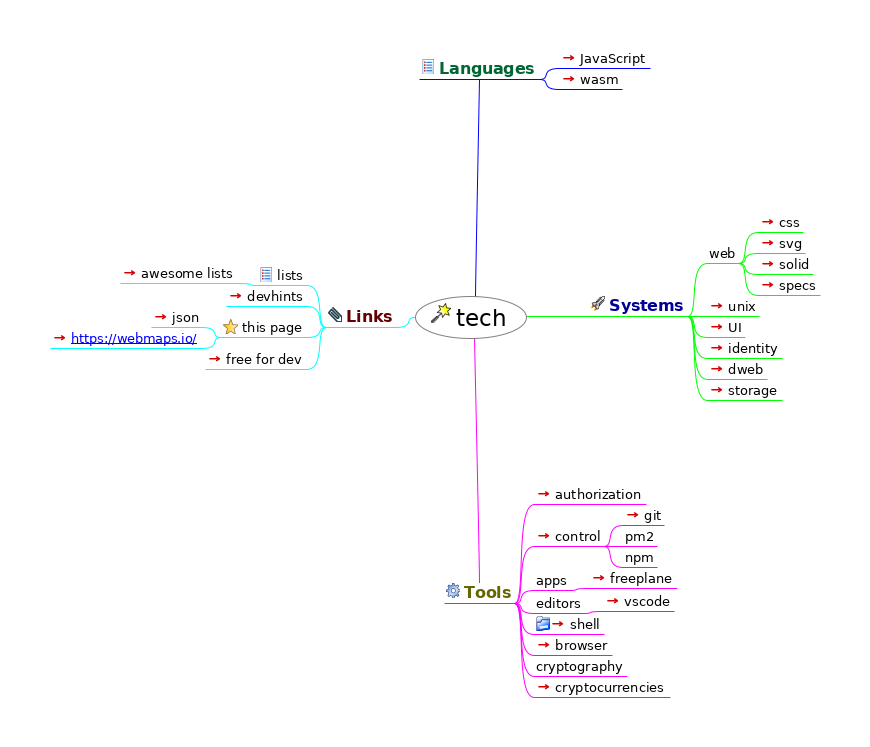
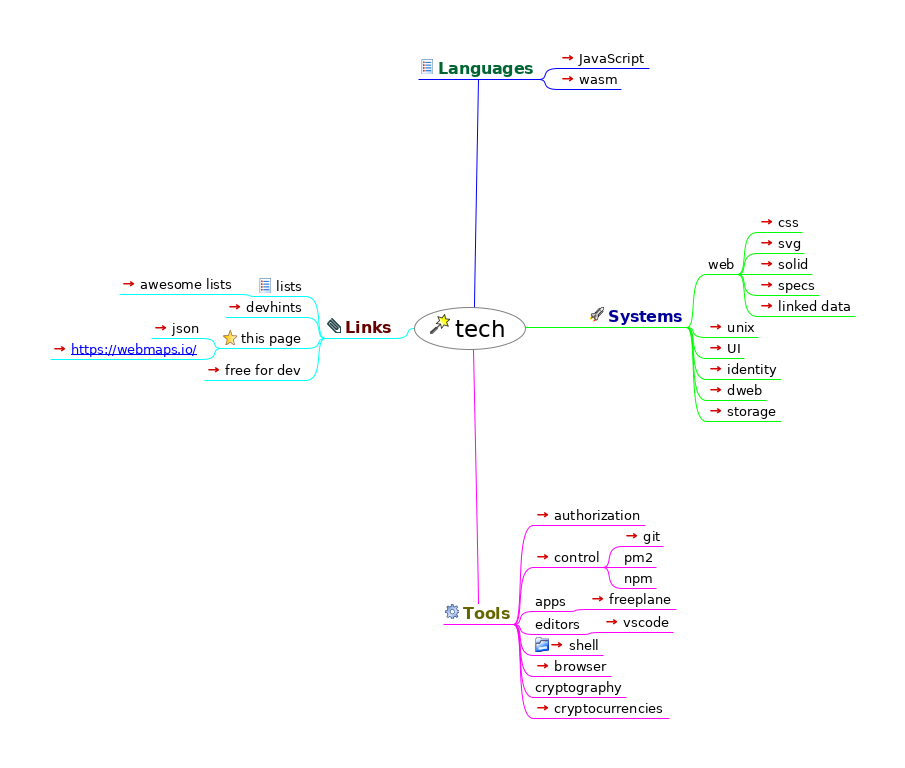
add linked data

diff --git a/index.html b/index.html
@@ -23,46 +23,47 @@
                    };
                };
           
-          --></script></head><body><h1>tech</h1><div style="width:96%;  padding:2%;  margin-bottom:10px;  border: 0px;  text-align:center;  vertical-align:center;"><img src="index.html_files/image.png" style="margin-bottom:10px; &#9;border: 0px; &#9;text-align:center; &#9;vertical-align:center;" alt="Imagemap" usemap="#fm_imagemap" /></div><map name="fm_imagemap" id="fm_imagemap"><area shape="rect" href="#FMID_237352286FM" alt="tech" title="tech" coords="415,296,527,339" />
-<area shape="rect" href="#FMID_176155545FM" alt="Languages" title="Languages" coords="419,59,540,79" />
-<area shape="rect" href="../JavaScript/index.html" alt="JavaScript" title="JavaScript" coords="559,50,650,68" />
-<area shape="rect" href="languages/wasm/index.html" alt="wasm" title="wasm" coords="559,71,622,89" />
-<area shape="rect" href="#FMID_527312312FM" alt="Systems" title="Systems" coords="588,296,688,316" />
-<area shape="rect" href="#FMID_532002583FM" alt="web" title="web" coords="707,245,739,263" />
-<area shape="rect" href="css.html" alt="css" title="css" coords="758,214,803,232" />
-<area shape="rect" href="https://www.w3schools.com/graphics/svg_reference.asp" alt="svg" title="svg" coords="758,235,805,253" />
-<area shape="rect" href="../solid/index.html" alt="solid" title="solid" coords="758,256,813,274" />
-<area shape="rect" href="../specs/index.html" alt="specs" title="specs" coords="758,277,820,295" />
-<area shape="rect" href="unix/index.html" alt="unix" title="unix" coords="707,298,759,316" />
-<area shape="rect" href="UI/index.html" alt="UI" title="UI" coords="707,319,745,337" />
-<area shape="rect" href="identity/index.html" alt="identity" title="identity" coords="707,340,782,358" />
-<area shape="rect" href="dweb/index.html" alt="dweb" title="dweb" coords="707,361,767,379" />
-<area shape="rect" href="storage/index.html" alt="storage" title="storage" coords="707,382,782,400" />
-<area shape="rect" href="#FMID_1810859973FM" alt="Tools" title="Tools" coords="444,583,515,603" />
-<area shape="rect" href="authorization/index.html" alt="authorization" title="authorization" coords="534,486,646,504" />
-<area shape="rect" href="control/index.html" alt="control" title="control" coords="534,528,604,546" />
-<area shape="rect" href="control/git.html" alt="git" title="git" coords="623,507,664,525" />
-<area shape="rect" href="#FMID_901084502FM" alt="pm2" title="pm2" coords="623,528,657,546" />
-<area shape="rect" href="#FMID_677687213FM" alt="npm" title="npm" coords="623,549,657,567" />
-<area shape="rect" href="#FMID_453742222FM" alt="apps" title="apps" coords="534,572,570,590" />
-<area shape="rect" href="freeplane.html" alt="freeplane" title="freeplane" coords="589,570,677,588" />
-<area shape="rect" href="#FMID_1019017499FM" alt="editors" title="editors" coords="534,595,584,613" />
-<area shape="rect" href="https://code.visualstudio.com/" alt="vscode" title="vscode" coords="603,593,674,611" />
-<area shape="rect" href="shell/index.html" alt="shell" title="shell" coords="534,616,604,634" />
-<area shape="rect" href="browser/index.html" alt="browser" title="browser" coords="534,637,612,655" />
-<area shape="rect" href="#FMID_697718730FM" alt="cryptography" title="cryptography" coords="534,658,627,676" />
-<area shape="rect" href="cryptocurrencies/index.html" alt="cryptocurrencies" title="cryptocurrencies" coords="534,679,670,697" />
-<area shape="rect" href="#FMID_777477932FM" alt="Links" title="Links" coords="326,307,396,327" />
-<area shape="rect" href="#FMID_21985093FM" alt="lists" title="lists" coords="257,267,307,285" />
-<area shape="rect" href="https://getawesomeness.herokuapp.com/get/js" alt="awesome lists" title="awesome lists" coords="120,265,238,283" />
-<area shape="rect" href="https://devhints.io/" alt="devhints" title="devhints" coords="226,288,307,306" />
-<area shape="rect" href="#FMID_117142409FM" alt="this page" title="this page" coords="221,319,307,337" />
-<area shape="rect" href="index.json" alt="json" title="json" coords="151,309,202,327" />
-<area shape="rect" href="https://webmaps.io/" alt="https://webmaps.io/" title="https://webmaps.io/" coords="50,330,202,348" />
-<area shape="rect" href="https://free-for.dev/#/" alt="free for dev" title="free for dev" coords="205,351,307,369" />
+          --></script></head><body><h1>tech</h1><div style="width:96%;  padding:2%;  margin-bottom:10px;  border: 0px;  text-align:center;  vertical-align:center;"><img src="index.html_files/image.png" style="margin-bottom:10px; &#9;border: 0px; &#9;text-align:center; &#9;vertical-align:center;" alt="Imagemap" usemap="#fm_imagemap" /></div><map name="fm_imagemap" id="fm_imagemap"><area shape="rect" href="#FMID_237352286FM" alt="tech" title="tech" coords="414,307,526,350" />
+<area shape="rect" href="#FMID_176155545FM" alt="Languages" title="Languages" coords="418,59,539,79" />
+<area shape="rect" href="../JavaScript/index.html" alt="JavaScript" title="JavaScript" coords="558,50,649,68" />
+<area shape="rect" href="languages/wasm/index.html" alt="wasm" title="wasm" coords="558,71,621,89" />
+<area shape="rect" href="#FMID_527312312FM" alt="Systems" title="Systems" coords="587,307,687,327" />
+<area shape="rect" href="#FMID_532002583FM" alt="web" title="web" coords="706,256,738,274" />
+<area shape="rect" href="css.html" alt="css" title="css" coords="757,214,802,232" />
+<area shape="rect" href="https://www.w3schools.com/graphics/svg_reference.asp" alt="svg" title="svg" coords="757,235,804,253" />
+<area shape="rect" href="../solid/index.html" alt="solid" title="solid" coords="757,256,812,274" />
+<area shape="rect" href="../specs/index.html" alt="specs" title="specs" coords="757,277,819,295" />
+<area shape="rect" href="../linkeddata/index.html.html" alt="linked data" title="linked data" coords="757,298,855,316" />
+<area shape="rect" href="unix/index.html" alt="unix" title="unix" coords="706,319,758,337" />
+<area shape="rect" href="UI/index.html" alt="UI" title="UI" coords="706,340,744,358" />
+<area shape="rect" href="identity/index.html" alt="identity" title="identity" coords="706,361,781,379" />
+<area shape="rect" href="dweb/index.html" alt="dweb" title="dweb" coords="706,382,766,400" />
+<area shape="rect" href="storage/index.html" alt="storage" title="storage" coords="706,403,781,421" />
+<area shape="rect" href="#FMID_1810859973FM" alt="Tools" title="Tools" coords="443,604,514,624" />
+<area shape="rect" href="authorization/index.html" alt="authorization" title="authorization" coords="533,507,645,525" />
+<area shape="rect" href="control/index.html" alt="control" title="control" coords="533,549,603,567" />
+<area shape="rect" href="control/git.html" alt="git" title="git" coords="622,528,663,546" />
+<area shape="rect" href="#FMID_901084502FM" alt="pm2" title="pm2" coords="622,549,656,567" />
+<area shape="rect" href="#FMID_677687213FM" alt="npm" title="npm" coords="622,570,656,588" />
+<area shape="rect" href="#FMID_453742222FM" alt="apps" title="apps" coords="533,593,569,611" />
+<area shape="rect" href="freeplane.html" alt="freeplane" title="freeplane" coords="588,591,676,609" />
+<area shape="rect" href="#FMID_1019017499FM" alt="editors" title="editors" coords="533,616,583,634" />
+<area shape="rect" href="https://code.visualstudio.com/" alt="vscode" title="vscode" coords="602,614,673,632" />
+<area shape="rect" href="shell/index.html" alt="shell" title="shell" coords="533,637,603,655" />
+<area shape="rect" href="browser/index.html" alt="browser" title="browser" coords="533,658,611,676" />
+<area shape="rect" href="#FMID_697718730FM" alt="cryptography" title="cryptography" coords="533,679,626,697" />
+<area shape="rect" href="cryptocurrencies/index.html" alt="cryptocurrencies" title="cryptocurrencies" coords="533,700,669,718" />
+<area shape="rect" href="#FMID_777477932FM" alt="Links" title="Links" coords="325,318,395,338" />
+<area shape="rect" href="#FMID_21985093FM" alt="lists" title="lists" coords="256,278,306,296" />
+<area shape="rect" href="https://getawesomeness.herokuapp.com/get/js" alt="awesome lists" title="awesome lists" coords="119,276,237,294" />
+<area shape="rect" href="https://devhints.io/" alt="devhints" title="devhints" coords="225,299,306,317" />
+<area shape="rect" href="#FMID_117142409FM" alt="this page" title="this page" coords="221,330,306,348" />
+<area shape="rect" href="index.json" alt="json" title="json" coords="151,320,202,338" />
+<area shape="rect" href="https://webmaps.io/" alt="https://webmaps.io/" title="https://webmaps.io/" coords="50,341,202,359" />
+<area shape="rect" href="https://free-for.dev/#/" alt="free for dev" title="free for dev" coords="204,362,306,380" />
 </map>
 
-<div class="node"><img src="index.html_files/hide.png" class="hideshow" alt="hide" onClick="toggle(&quot;N65543&quot;)" id="imgN65543" /><img src="index.html_files/icons/wizard.svg" alt="wizard" /> <a id="FMID_237352286FM" /><div class="nodecontent" style="color:#000000;font-size:150%;">tech</div><div class="content" id="N65543"><div class="node"><img src="index.html_files/hide.png" class="hideshow" alt="hide" onClick="toggle(&quot;N66444&quot;)" id="imgN66444" /><img src="index.html_files/icons/list.svg" alt="list" /> <a id="FMID_176155545FM" /><div class="nodecontent" style="color:#006633;font-size:100%;font-weight:bold;">Languages</div><div class="content" id="N66444"><div class="node"><img src="index.html_files/leaf.png" class="hideshow" alt="leaf" /><a id="FMID_546595456FM" /><div class="nodecontent" style="color:#000000;font-size:83%;"><a href="../JavaScript/index.html">JavaScript</a> <a href="../JavaScript/index.html"><img src="index.html_files/ilink.png" alt="User Link" style="border-width:0" /></a></div></div><div class="node"><img src="index.html_files/leaf.png" class="hideshow" alt="leaf" /><a id="FMID_1992588014FM" /><div class="nodecontent" style="color:#000000;font-size:83%;"><a href="languages/wasm/index.html">wasm</a> <a href="languages/wasm/index.html"><img src="index.html_files/ilink.png" alt="User Link" style="border-width:0" /></a></div></div></div></div><div class="node"><img src="index.html_files/hide.png" class="hideshow" alt="hide" onClick="toggle(&quot;N66562&quot;)" id="imgN66562" /><img src="index.html_files/icons/launch.svg" alt="launch" /> <a id="FMID_527312312FM" /><div class="nodecontent" style="color:#000099;font-size:100%;font-weight:bold;">Systems</div><div class="content" id="N66562"><div class="node"><img src="index.html_files/hide.png" class="hideshow" alt="hide" onClick="toggle(&quot;N66605&quot;)" id="imgN66605" /><a id="FMID_532002583FM" /><div class="nodecontent" style="color:#000000;font-size:83%;">web</div><div class="content" id="N66605"><div class="node"><img src="index.html_files/leaf.png" class="hideshow" alt="leaf" /><a id="FMID_1846113849FM" /><div class="nodecontent" style="color:#000000;font-size:83%;"><a href="css.html">css</a> <a href="css.html"><img src="index.html_files/ilink.png" alt="User Link" style="border-width:0" /></a></div></div><div class="node"><img src="index.html_files/leaf.png" class="hideshow" alt="leaf" /><a id="FMID_428457042FM" /><div class="nodecontent" style="color:#000000;font-size:83%;"><a href="https://www.w3schools.com/graphics/svg_reference.asp">svg</a> <a href="https://www.w3schools.com/graphics/svg_reference.asp"><img src="index.html_files/ilink.png" alt="User Link" style="border-width:0" /></a></div></div><div class="node"><img src="index.html_files/leaf.png" class="hideshow" alt="leaf" /><a id="FMID_1070141955FM" /><div class="nodecontent" style="color:#000000;font-size:83%;"><a href="../solid/index.html">solid</a> <a href="../solid/index.html"><img src="index.html_files/ilink.png" alt="User Link" style="border-width:0" /></a></div></div><div class="node"><img src="index.html_files/leaf.png" class="hideshow" alt="leaf" /><a id="FMID_1682894723FM" /><div class="nodecontent" style="color:#000000;font-size:83%;"><a href="../specs/index.html">specs</a> <a href="../specs/index.html"><img src="index.html_files/ilink.png" alt="User Link" style="border-width:0" /></a></div></div></div></div><div class="node"><img src="index.html_files/leaf.png" class="hideshow" alt="leaf" /><a id="FMID_7338816FM" /><div class="nodecontent" style="color:#000000;font-size:83%;"><a href="unix/index.html">unix</a> <a href="unix/index.html"><img src="index.html_files/ilink.png" alt="User Link" style="border-width:0" /></a></div></div><div class="node"><img src="index.html_files/leaf.png" class="hideshow" alt="leaf" /><a id="FMID_1601511624FM" /><div class="nodecontent" style="color:#000000;font-size:83%;"><a href="UI/index.html">UI</a> <a href="UI/index.html"><img src="index.html_files/ilink.png" alt="User Link" style="border-width:0" /></a></div></div><div class="node"><img src="index.html_files/leaf.png" class="hideshow" alt="leaf" /><a id="FMID_879802849FM" /><div class="nodecontent" style="color:#000000;font-size:83%;"><a href="identity/index.html">identity</a> <a href="identity/index.html"><img src="index.html_files/ilink.png" alt="User Link" style="border-width:0" /></a></div></div><div class="node"><img src="index.html_files/leaf.png" class="hideshow" alt="leaf" /><a id="FMID_1672732454FM" /><div class="nodecontent" style="color:#000000;font-size:83%;"><a href="dweb/index.html">dweb</a> <a href="dweb/index.html"><img src="index.html_files/ilink.png" alt="User Link" style="border-width:0" /></a></div></div><div class="node"><img src="index.html_files/leaf.png" class="hideshow" alt="leaf" /><a id="FMID_1360108173FM" /><div class="nodecontent" style="color:#000000;font-size:83%;"><a href="storage/index.html">storage</a> <a href="storage/index.html"><img src="index.html_files/ilink.png" alt="User Link" style="border-width:0" /></a></div></div></div></div><div class="node"><img src="index.html_files/hide.png" class="hideshow" alt="hide" onClick="toggle(&quot;N66975&quot;)" id="imgN66975" /><img src="index.html_files/icons/executable.svg" alt="executable" /> <a id="FMID_1810859973FM" /><div class="nodecontent" style="color:#666600;font-size:100%;font-weight:bold;">Tools</div><div class="content" id="N66975"><div class="node"><img src="index.html_files/leaf.png" class="hideshow" alt="leaf" /><a id="FMID_1568925180FM" /><div class="nodecontent" style="color:#000000;font-size:83%;"><a href="authorization/index.html">authorization</a> <a href="authorization/index.html"><img src="index.html_files/ilink.png" alt="User Link" style="border-width:0" /></a></div></div><div class="node"><img src="index.html_files/hide.png" class="hideshow" alt="hide" onClick="toggle(&quot;N67055&quot;)" id="imgN67055" /><a id="FMID_1041005677FM" /><div class="nodecontent" style="color:#000000;font-size:83%;"><a href="control/index.html">control</a> <a href="control/index.html"><img src="index.html_files/ilink.png" alt="User Link" style="border-width:0" /></a></div><div class="content" id="N67055"><div class="node"><img src="index.html_files/leaf.png" class="hideshow" alt="leaf" /><a id="FMID_1536156446FM" /><div class="nodecontent" style="color:#000000;font-size:83%;"><a href="control/git.html">git</a> <a href="control/git.html"><img src="index.html_files/ilink.png" alt="User Link" style="border-width:0" /></a></div></div><div class="node"><img src="index.html_files/leaf.png" class="hideshow" alt="leaf" /><a id="FMID_901084502FM" /><div class="nodecontent" style="color:#000000;font-size:83%;">pm2</div></div><div class="node"><img src="index.html_files/leaf.png" class="hideshow" alt="leaf" /><a id="FMID_677687213FM" /><div class="nodecontent" style="color:#000000;font-size:83%;">npm</div></div></div></div><div class="node"><img src="index.html_files/hide.png" class="hideshow" alt="hide" onClick="toggle(&quot;N67201&quot;)" id="imgN67201" /><a id="FMID_453742222FM" /><div class="nodecontent" style="color:#000000;font-size:83%;">apps</div><div class="content" id="N67201"><div class="node"><img src="index.html_files/leaf.png" class="hideshow" alt="leaf" /><a id="FMID_756649779FM" /><div class="nodecontent" style="color:#000000;font-size:83%;"><a href="freeplane.html">freeplane</a> <a href="freeplane.html"><img src="index.html_files/ilink.png" alt="User Link" style="border-width:0" /></a></div></div></div></div><div class="node"><img src="index.html_files/hide.png" class="hideshow" alt="hide" onClick="toggle(&quot;N67274&quot;)" id="imgN67274" /><a id="FMID_1019017499FM" /><div class="nodecontent" style="color:#000000;font-size:83%;">editors</div><div class="content" id="N67274"><div class="node"><img src="index.html_files/leaf.png" class="hideshow" alt="leaf" /><a id="FMID_847676993FM" /><div class="nodecontent" style="color:#000000;font-size:83%;"><a href="https://code.visualstudio.com/">vscode</a> <a href="https://code.visualstudio.com/"><img src="index.html_files/ilink.png" alt="User Link" style="border-width:0" /></a></div></div></div></div><div class="node"><img src="index.html_files/leaf.png" class="hideshow" alt="leaf" /><img src="index.html_files/icons/folder.svg" alt="folder" /> <a id="FMID_1968717210FM" /><div class="nodecontent" style="color:#000000;font-size:83%;"><a href="shell/index.html">shell</a> <a href="shell/index.html"><img src="index.html_files/ilink.png" alt="User Link" style="border-width:0" /></a></div></div><div class="node"><img src="index.html_files/leaf.png" class="hideshow" alt="leaf" /><a id="FMID_220365950FM" /><div class="nodecontent" style="color:#000000;font-size:83%;"><a href="browser/index.html">browser</a> <a href="browser/index.html"><img src="index.html_files/ilink.png" alt="User Link" style="border-width:0" /></a></div></div><div class="node"><img src="index.html_files/leaf.png" class="hideshow" alt="leaf" /><a id="FMID_697718730FM" /><div class="nodecontent" style="color:#000000;font-size:83%;">cryptography</div></div><div class="node"><img src="index.html_files/leaf.png" class="hideshow" alt="leaf" /><a id="FMID_653198444FM" /><div class="nodecontent" style="color:#000000;font-size:83%;"><a href="cryptocurrencies/index.html">cryptocurrencies</a> <a href="cryptocurrencies/index.html"><img src="index.html_files/ilink.png" alt="User Link" style="border-width:0" /></a></div></div></div></div><div class="node"><img src="index.html_files/hide.png" class="hideshow" alt="hide" onClick="toggle(&quot;N67500&quot;)" id="imgN67500" /><img src="index.html_files/icons/attach.svg" alt="attach" /> <a id="FMID_777477932FM" /><div class="nodecontent" style="color:#660000;font-size:100%;font-weight:bold;">Links</div><div class="content" id="N67500"><div class="node"><img src="index.html_files/hide.png" class="hideshow" alt="hide" onClick="toggle(&quot;N67541&quot;)" id="imgN67541" /><img src="index.html_files/icons/list.svg" alt="list" /> <a id="FMID_21985093FM" /><div class="nodecontent" style="color:#000000;font-size:83%;">lists</div><div class="content" id="N67541"><div class="node"><img src="index.html_files/leaf.png" class="hideshow" alt="leaf" /><a id="FMID_588856980FM" /><div class="nodecontent" style="color:#000000;font-size:83%;"><a href="https://getawesomeness.herokuapp.com/get/js">awesome lists</a> <a href="https://getawesomeness.herokuapp.com/get/js"><img src="index.html_files/ilink.png" alt="User Link" style="border-width:0" /></a></div></div></div></div><div class="node"><img src="index.html_files/leaf.png" class="hideshow" alt="leaf" /><a id="FMID_1033702527FM" /><div class="nodecontent" style="color:#000000;font-size:83%;"><a href="https://devhints.io/">devhints</a> <a href="https://devhints.io/"><img src="index.html_files/ilink.png" alt="User Link" style="border-width:0" /></a></div></div><div class="node"><img src="index.html_files/hide.png" class="hideshow" alt="hide" onClick="toggle(&quot;N67656&quot;)" id="imgN67656" /><img src="index.html_files/icons/bookmark.svg" alt="bookmark" /> <a id="FMID_117142409FM" /><div class="nodecontent" style="color:#000000;font-size:83%;">this page</div><div class="content" id="N67656"><div class="node"><img src="index.html_files/leaf.png" class="hideshow" alt="leaf" /><a id="FMID_485260235FM" /><div class="nodecontent" style="color:#000000;font-size:83%;"><a href="index.json">json</a> <a href="index.json"><img src="index.html_files/ilink.png" alt="User Link" style="border-width:0" /></a></div></div><div class="node"><img src="index.html_files/leaf.png" class="hideshow" alt="leaf" /><a id="FMID_1630439828FM" /><div class="nodecontent" style="color:#000000;font-size:83%;"><a href="https://webmaps.io/">
+<div class="node"><img src="index.html_files/hide.png" class="hideshow" alt="hide" onClick="toggle(&quot;N65543&quot;)" id="imgN65543" /><img src="index.html_files/icons/wizard.svg" alt="wizard" /> <a id="FMID_237352286FM" /><div class="nodecontent" style="color:#000000;font-size:150%;">tech</div><div class="content" id="N65543"><div class="node"><img src="index.html_files/hide.png" class="hideshow" alt="hide" onClick="toggle(&quot;N66444&quot;)" id="imgN66444" /><img src="index.html_files/icons/list.svg" alt="list" /> <a id="FMID_176155545FM" /><div class="nodecontent" style="color:#006633;font-size:100%;font-weight:bold;">Languages</div><div class="content" id="N66444"><div class="node"><img src="index.html_files/leaf.png" class="hideshow" alt="leaf" /><a id="FMID_546595456FM" /><div class="nodecontent" style="color:#000000;font-size:83%;"><a href="../JavaScript/index.html">JavaScript</a> <a href="../JavaScript/index.html"><img src="index.html_files/ilink.png" alt="User Link" style="border-width:0" /></a></div></div><div class="node"><img src="index.html_files/leaf.png" class="hideshow" alt="leaf" /><a id="FMID_1992588014FM" /><div class="nodecontent" style="color:#000000;font-size:83%;"><a href="languages/wasm/index.html">wasm</a> <a href="languages/wasm/index.html"><img src="index.html_files/ilink.png" alt="User Link" style="border-width:0" /></a></div></div></div></div><div class="node"><img src="index.html_files/hide.png" class="hideshow" alt="hide" onClick="toggle(&quot;N66562&quot;)" id="imgN66562" /><img src="index.html_files/icons/launch.svg" alt="launch" /> <a id="FMID_527312312FM" /><div class="nodecontent" style="color:#000099;font-size:100%;font-weight:bold;">Systems</div><div class="content" id="N66562"><div class="node"><img src="index.html_files/hide.png" class="hideshow" alt="hide" onClick="toggle(&quot;N66605&quot;)" id="imgN66605" /><a id="FMID_532002583FM" /><div class="nodecontent" style="color:#000000;font-size:83%;">web</div><div class="content" id="N66605"><div class="node"><img src="index.html_files/leaf.png" class="hideshow" alt="leaf" /><a id="FMID_1846113849FM" /><div class="nodecontent" style="color:#000000;font-size:83%;"><a href="css.html">css</a> <a href="css.html"><img src="index.html_files/ilink.png" alt="User Link" style="border-width:0" /></a></div></div><div class="node"><img src="index.html_files/leaf.png" class="hideshow" alt="leaf" /><a id="FMID_428457042FM" /><div class="nodecontent" style="color:#000000;font-size:83%;"><a href="https://www.w3schools.com/graphics/svg_reference.asp">svg</a> <a href="https://www.w3schools.com/graphics/svg_reference.asp"><img src="index.html_files/ilink.png" alt="User Link" style="border-width:0" /></a></div></div><div class="node"><img src="index.html_files/leaf.png" class="hideshow" alt="leaf" /><a id="FMID_1070141955FM" /><div class="nodecontent" style="color:#000000;font-size:83%;"><a href="../solid/index.html">solid</a> <a href="../solid/index.html"><img src="index.html_files/ilink.png" alt="User Link" style="border-width:0" /></a></div></div><div class="node"><img src="index.html_files/leaf.png" class="hideshow" alt="leaf" /><a id="FMID_1682894723FM" /><div class="nodecontent" style="color:#000000;font-size:83%;"><a href="../specs/index.html">specs</a> <a href="../specs/index.html"><img src="index.html_files/ilink.png" alt="User Link" style="border-width:0" /></a></div></div><div class="node"><img src="index.html_files/leaf.png" class="hideshow" alt="leaf" /><a id="FMID_1972132930FM" /><div class="nodecontent" style="color:#000000;font-size:83%;"><a href="../linkeddata/index.html.html">linked data</a> <a href="../linkeddata/index.html.html"><img src="index.html_files/ilink.png" alt="User Link" style="border-width:0" /></a></div></div></div></div><div class="node"><img src="index.html_files/leaf.png" class="hideshow" alt="leaf" /><a id="FMID_7338816FM" /><div class="nodecontent" style="color:#000000;font-size:83%;"><a href="unix/index.html">unix</a> <a href="unix/index.html"><img src="index.html_files/ilink.png" alt="User Link" style="border-width:0" /></a></div></div><div class="node"><img src="index.html_files/leaf.png" class="hideshow" alt="leaf" /><a id="FMID_1601511624FM" /><div class="nodecontent" style="color:#000000;font-size:83%;"><a href="UI/index.html">UI</a> <a href="UI/index.html"><img src="index.html_files/ilink.png" alt="User Link" style="border-width:0" /></a></div></div><div class="node"><img src="index.html_files/leaf.png" class="hideshow" alt="leaf" /><a id="FMID_879802849FM" /><div class="nodecontent" style="color:#000000;font-size:83%;"><a href="identity/index.html">identity</a> <a href="identity/index.html"><img src="index.html_files/ilink.png" alt="User Link" style="border-width:0" /></a></div></div><div class="node"><img src="index.html_files/leaf.png" class="hideshow" alt="leaf" /><a id="FMID_1672732454FM" /><div class="nodecontent" style="color:#000000;font-size:83%;"><a href="dweb/index.html">dweb</a> <a href="dweb/index.html"><img src="index.html_files/ilink.png" alt="User Link" style="border-width:0" /></a></div></div><div class="node"><img src="index.html_files/leaf.png" class="hideshow" alt="leaf" /><a id="FMID_1360108173FM" /><div class="nodecontent" style="color:#000000;font-size:83%;"><a href="storage/index.html">storage</a> <a href="storage/index.html"><img src="index.html_files/ilink.png" alt="User Link" style="border-width:0" /></a></div></div></div></div><div class="node"><img src="index.html_files/hide.png" class="hideshow" alt="hide" onClick="toggle(&quot;N67012&quot;)" id="imgN67012" /><img src="index.html_files/icons/executable.svg" alt="executable" /> <a id="FMID_1810859973FM" /><div class="nodecontent" style="color:#666600;font-size:100%;font-weight:bold;">Tools</div><div class="content" id="N67012"><div class="node"><img src="index.html_files/leaf.png" class="hideshow" alt="leaf" /><a id="FMID_1568925180FM" /><div class="nodecontent" style="color:#000000;font-size:83%;"><a href="authorization/index.html">authorization</a> <a href="authorization/index.html"><img src="index.html_files/ilink.png" alt="User Link" style="border-width:0" /></a></div></div><div class="node"><img src="index.html_files/hide.png" class="hideshow" alt="hide" onClick="toggle(&quot;N67092&quot;)" id="imgN67092" /><a id="FMID_1041005677FM" /><div class="nodecontent" style="color:#000000;font-size:83%;"><a href="control/index.html">control</a> <a href="control/index.html"><img src="index.html_files/ilink.png" alt="User Link" style="border-width:0" /></a></div><div class="content" id="N67092"><div class="node"><img src="index.html_files/leaf.png" class="hideshow" alt="leaf" /><a id="FMID_1536156446FM" /><div class="nodecontent" style="color:#000000;font-size:83%;"><a href="control/git.html">git</a> <a href="control/git.html"><img src="index.html_files/ilink.png" alt="User Link" style="border-width:0" /></a></div></div><div class="node"><img src="index.html_files/leaf.png" class="hideshow" alt="leaf" /><a id="FMID_901084502FM" /><div class="nodecontent" style="color:#000000;font-size:83%;">pm2</div></div><div class="node"><img src="index.html_files/leaf.png" class="hideshow" alt="leaf" /><a id="FMID_677687213FM" /><div class="nodecontent" style="color:#000000;font-size:83%;">npm</div></div></div></div><div class="node"><img src="index.html_files/hide.png" class="hideshow" alt="hide" onClick="toggle(&quot;N67238&quot;)" id="imgN67238" /><a id="FMID_453742222FM" /><div class="nodecontent" style="color:#000000;font-size:83%;">apps</div><div class="content" id="N67238"><div class="node"><img src="index.html_files/leaf.png" class="hideshow" alt="leaf" /><a id="FMID_756649779FM" /><div class="nodecontent" style="color:#000000;font-size:83%;"><a href="freeplane.html">freeplane</a> <a href="freeplane.html"><img src="index.html_files/ilink.png" alt="User Link" style="border-width:0" /></a></div></div></div></div><div class="node"><img src="index.html_files/hide.png" class="hideshow" alt="hide" onClick="toggle(&quot;N67311&quot;)" id="imgN67311" /><a id="FMID_1019017499FM" /><div class="nodecontent" style="color:#000000;font-size:83%;">editors</div><div class="content" id="N67311"><div class="node"><img src="index.html_files/leaf.png" class="hideshow" alt="leaf" /><a id="FMID_847676993FM" /><div class="nodecontent" style="color:#000000;font-size:83%;"><a href="https://code.visualstudio.com/">vscode</a> <a href="https://code.visualstudio.com/"><img src="index.html_files/ilink.png" alt="User Link" style="border-width:0" /></a></div></div></div></div><div class="node"><img src="index.html_files/leaf.png" class="hideshow" alt="leaf" /><img src="index.html_files/icons/folder.svg" alt="folder" /> <a id="FMID_1968717210FM" /><div class="nodecontent" style="color:#000000;font-size:83%;"><a href="shell/index.html">shell</a> <a href="shell/index.html"><img src="index.html_files/ilink.png" alt="User Link" style="border-width:0" /></a></div></div><div class="node"><img src="index.html_files/leaf.png" class="hideshow" alt="leaf" /><a id="FMID_220365950FM" /><div class="nodecontent" style="color:#000000;font-size:83%;"><a href="browser/index.html">browser</a> <a href="browser/index.html"><img src="index.html_files/ilink.png" alt="User Link" style="border-width:0" /></a></div></div><div class="node"><img src="index.html_files/leaf.png" class="hideshow" alt="leaf" /><a id="FMID_697718730FM" /><div class="nodecontent" style="color:#000000;font-size:83%;">cryptography</div></div><div class="node"><img src="index.html_files/leaf.png" class="hideshow" alt="leaf" /><a id="FMID_653198444FM" /><div class="nodecontent" style="color:#000000;font-size:83%;"><a href="cryptocurrencies/index.html">cryptocurrencies</a> <a href="cryptocurrencies/index.html"><img src="index.html_files/ilink.png" alt="User Link" style="border-width:0" /></a></div></div></div></div><div class="node"><img src="index.html_files/hide.png" class="hideshow" alt="hide" onClick="toggle(&quot;N67537&quot;)" id="imgN67537" /><img src="index.html_files/icons/attach.svg" alt="attach" /> <a id="FMID_777477932FM" /><div class="nodecontent" style="color:#660000;font-size:100%;font-weight:bold;">Links</div><div class="content" id="N67537"><div class="node"><img src="index.html_files/hide.png" class="hideshow" alt="hide" onClick="toggle(&quot;N67578&quot;)" id="imgN67578" /><img src="index.html_files/icons/list.svg" alt="list" /> <a id="FMID_21985093FM" /><div class="nodecontent" style="color:#000000;font-size:83%;">lists</div><div class="content" id="N67578"><div class="node"><img src="index.html_files/leaf.png" class="hideshow" alt="leaf" /><a id="FMID_588856980FM" /><div class="nodecontent" style="color:#000000;font-size:83%;"><a href="https://getawesomeness.herokuapp.com/get/js">awesome lists</a> <a href="https://getawesomeness.herokuapp.com/get/js"><img src="index.html_files/ilink.png" alt="User Link" style="border-width:0" /></a></div></div></div></div><div class="node"><img src="index.html_files/leaf.png" class="hideshow" alt="leaf" /><a id="FMID_1033702527FM" /><div class="nodecontent" style="color:#000000;font-size:83%;"><a href="https://devhints.io/">devhints</a> <a href="https://devhints.io/"><img src="index.html_files/ilink.png" alt="User Link" style="border-width:0" /></a></div></div><div class="node"><img src="index.html_files/hide.png" class="hideshow" alt="hide" onClick="toggle(&quot;N67693&quot;)" id="imgN67693" /><img src="index.html_files/icons/bookmark.svg" alt="bookmark" /> <a id="FMID_117142409FM" /><div class="nodecontent" style="color:#000000;font-size:83%;">this page</div><div class="content" id="N67693"><div class="node"><img src="index.html_files/leaf.png" class="hideshow" alt="leaf" /><a id="FMID_485260235FM" /><div class="nodecontent" style="color:#000000;font-size:83%;"><a href="index.json">json</a> <a href="index.json"><img src="index.html_files/ilink.png" alt="User Link" style="border-width:0" /></a></div></div><div class="node"><img src="index.html_files/leaf.png" class="hideshow" alt="leaf" /><a id="FMID_1630439828FM" /><div class="nodecontent" style="color:#000000;font-size:83%;"><a href="https://webmaps.io/">
     <a http-equiv="content-type" content="text/html; charset=utf-8" href="https://webmaps.io/">https://webmaps.io/</a>
   </a> <a href="https://webmaps.io/"><img src="index.html_files/ilink.png" alt="User Link" style="border-width:0" /></a></div></div></div></div><div class="node"><img src="index.html_files/leaf.png" class="hideshow" alt="leaf" /><a id="FMID_1577207701FM" /><div class="nodecontent" style="color:#000000;font-size:83%;"><a href="https://free-for.dev/#/">free for dev</a> <a href="https://free-for.dev/#/"><img src="index.html_files/ilink.png" alt="User Link" style="border-width:0" /></a></div></div></div></div></div></div>
 </body></html>

diff --git a/index.mm b/index.mm
@@ -81,6 +81,9 @@
 <node TEXT="svg" ID="ID_428457042" CREATED="1571334566267" MODIFIED="1571336723249" LINK="https://www.w3schools.com/graphics/svg_reference.asp"/>
 <node TEXT="solid" ID="ID_1070141955" CREATED="1572957566339" MODIFIED="1573024605205" LINK="../solid/index.mm"/>
 <node TEXT="specs" ID="ID_1682894723" CREATED="1573041656991" MODIFIED="1574594852027" LINK="../specs/index.mm"/>
+<node TEXT="linked data" ID="ID_1972132930" CREATED="1578577934328" MODIFIED="1578577934340" LINK="../linkeddata/index.html.mm">
+<edge STYLE="bezier" COLOR="#00ff00" WIDTH="thin"/>
+</node>
 </node>
 <node TEXT="unix" ID="ID_7338816" CREATED="1574808370249" MODIFIED="1574808559592" LINK="unix/index.mm"/>
 <node TEXT="UI" ID="ID_1601511624" CREATED="1577512794222" MODIFIED="1577512794229" LINK="UI/index.mm">
